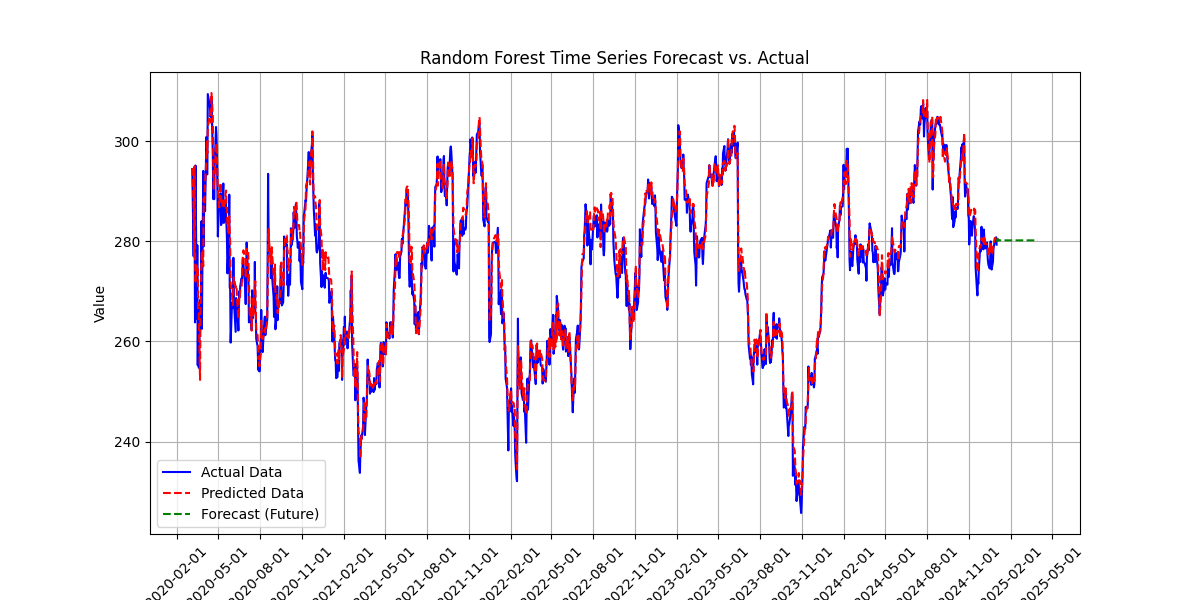
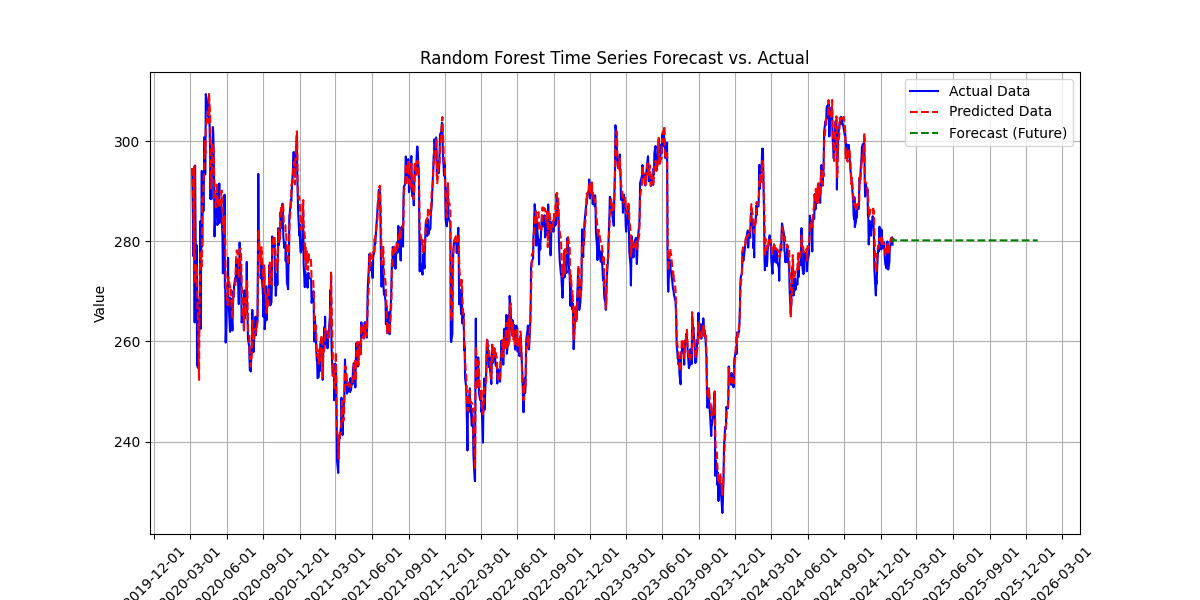
almost done with RFR, need to tweak as predictions is TOO perfect

Changed region(s): [[0.1542, 0.12, 0.8942, 0.87], [0.0925, 0.9, 0.925, 1.0], [0.1233, 0.75, 0.2775, 0.87]]

diff --git a/random_forest_mo.py b/random_forest_mo.py
@@ -1,0 +1,62 @@
+import pickle as pkl
+import pandas as pd
+import matplotlib.pyplot as plt
+import matplotlib.dates as mdates
+import os
+from sklearn.ensemble import RandomForestRegressor
+from sklearn.metrics import root_mean_squared_error
+from pathlib import Path
+
+def create_output_folder(file_name, ticker):
+    dir_name = f"PDAOutput/PDA_{ticker}"
+    os.makedirs(dir_name, exist_ok=True)
+
+def get_ticker(file_name):
+    strName = file_name.replace("datasets\\","")
+    NameParts = strName.split('.')
+    return NameParts[0]
+
+def main():
+    datasets = Path("datasets").rglob("*.csv")
+
+    for data in datasets:
+        file_name = str(data)
+        df = pd.read_csv(data)
+        ticker = get_ticker(file_name)
+        create_output_folder(file_name, ticker)
+
+        df['Date'] = pd.to_datetime(df['Date'])
+
+        # Feature engineering (example: lagged feature)
+        for lag in range(1, 11):
+            df[f"Lag_{lag}"] = df['Close'].shift(lag)
+        df.dropna(inplace=True)
+
+        # Define features (X) and target (y)
+        X = df[[f'Lag_{lag}' for lag in range(1, 11)] + ['High', 'Low', 'Open', 'Volume']] 
+        y = df['Close']
+
+        # Split into training and testing (example: last 250 for testing)
+        test_size = 250
+        X_train, X_test = X[:-test_size], X[-test_size:]
+        y_train, y_test = y[:-test_size], y[-test_size:]
+
+        # Initialize and train the Random Forest Regressor
+        rf_regressor = RandomForestRegressor(n_estimators=100, random_state=42)
+        rf_regressor.fit(X_train, y_train)
+
+        # Make predictions
+        predictions = rf_regressor.predict(X_test)
+
+        plt.figure(figsize=(12, 6))
+        plt.plot(df['Date'][:-test_size], y_train, label='Actual', color='blue')
+        # plt.plot(df['Date'][-test_size:], y_test, label='Actual Test', color='green') # Actual Test Data to compare with prediction
+        plt.plot(df['Date'][-test_size:], predictions, label='Predicted', color='red', linestyle='--')
+        plt.title(f'Random Forest Regressor for {ticker} Time Series Forecasting')
+        plt.xlabel('Date')
+        plt.ylabel('Close')
+        plt.legend()
+        plt.grid(True)
+        plt.show()
+
+main()

diff --git a/random_forest.py b/random_forest.py
@@ -55,7 +55,7 @@ def main():
             rfr_pred = rfr.predict(last_known.to_frame().T)[0]
             rfr_preds.append(rfr_pred)
 
-            # roll lag values
+            # Shift lag values
             last_known['Close_lag3'] = last_known['Close_lag2']
             last_known['Close_lag2'] = last_known['Close_lag1']
             last_known['Close_lag1'] = rfr_pred
@@ -75,7 +75,7 @@ def main():
         print(f"{ticker} RMSE: {rmse}")
 
         # FUTURE DATA FORECASTING (OPTIONAL) JUST MESSING AROUND
-        future_steps = 90
+        future_steps = 365
         future_preds = []
         last_known = X.iloc[-1].copy()
         last_date = df.index[-1]
